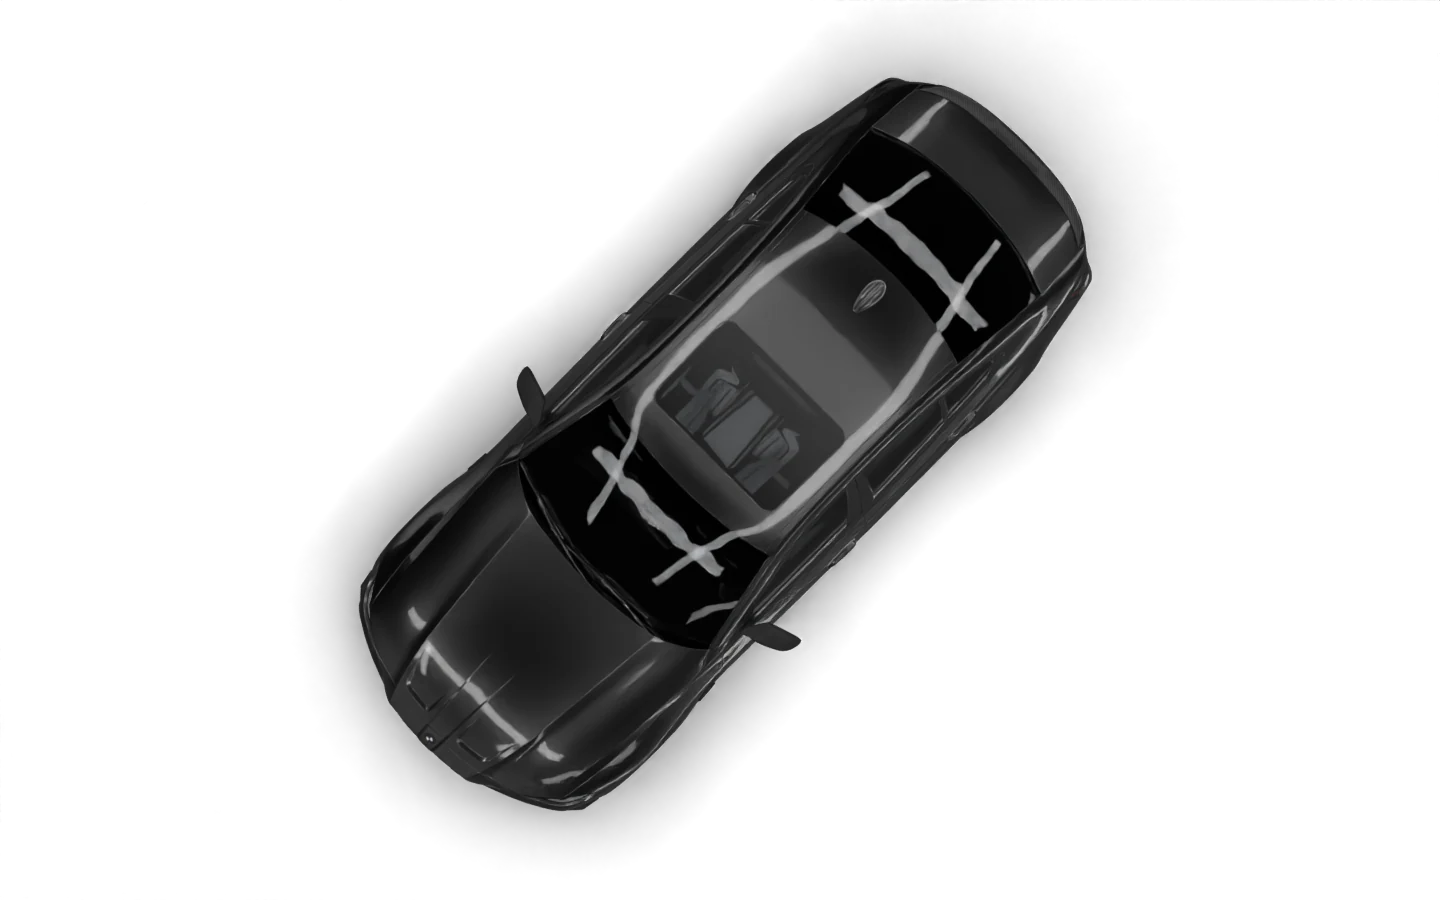
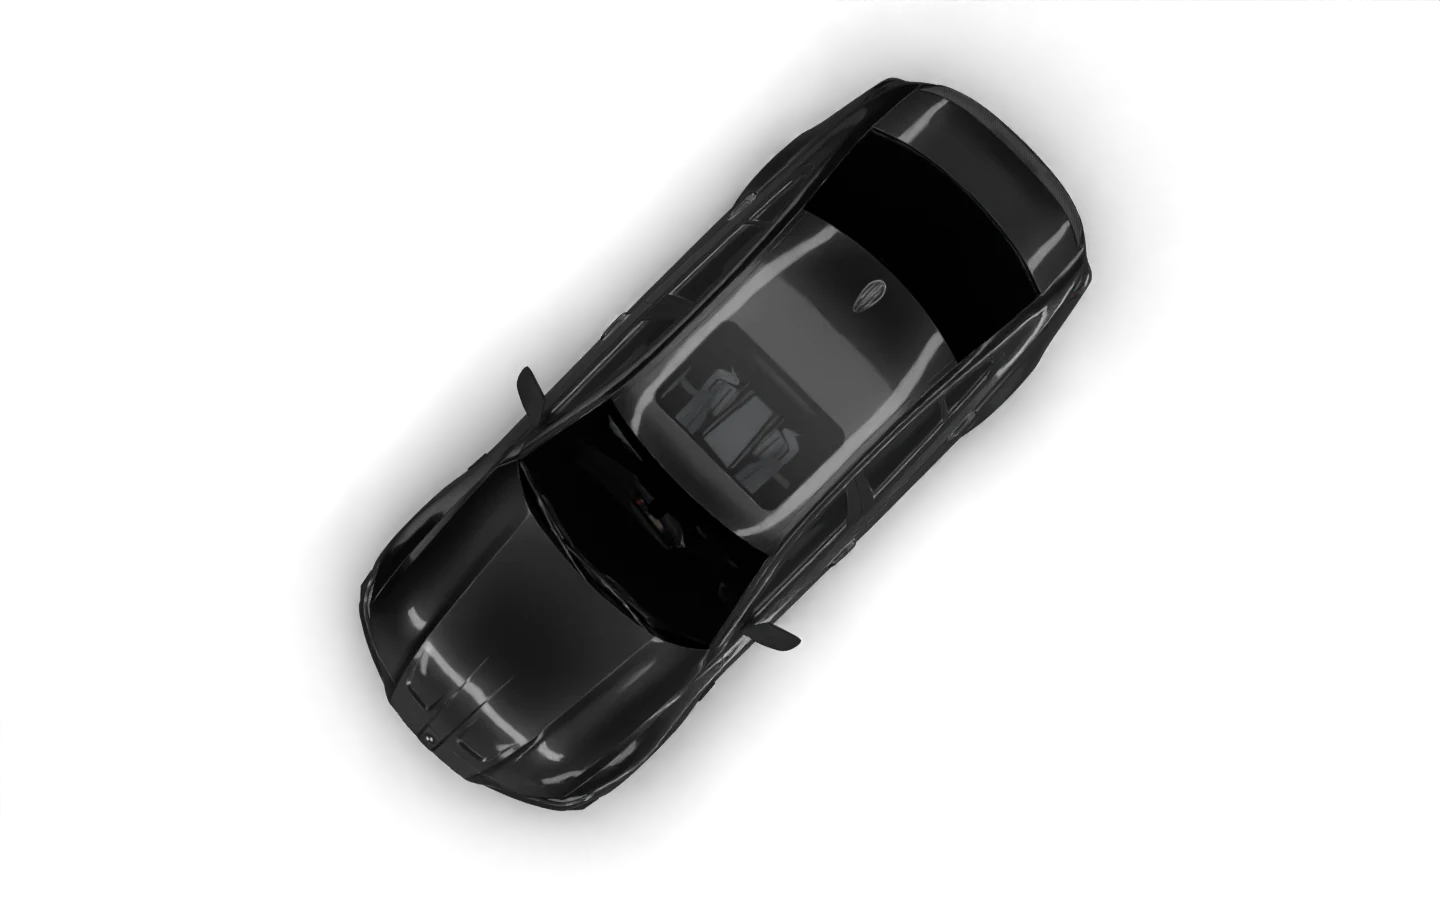
m3_g80: calm windscreen reflections (light-linked strips), tame hot top view
Per-car CAR_FIXES: glass_unlink (crisp strips no longer reflect in the bumpy glazing),
view_gain (shoulder strip 25% dimmer in the top view only, p99 1.0 -> 0.94), dark/glass_* hooks.

Claude-Session: https://claude.ai/code/session_01UZAjg8F9GXgyhnUCQ2q5hH

diff --git a/scripts/prerender/render_car.py b/scripts/prerender/render_car.py
@@ -59,11 +59,7 @@ CAR_FIXES = {
     # no_subdiv: subdivided, it runs out of memory (12.7 GB). glass_unlink: no ragged strip reflections in the bumpy glazing.
     # view_gain: from above the roof's shoulder highlights clipped (p99 1.0), so that one strip is 25% dimmer in the top view.
     'm3_g80': {'thin_glass': True, 'no_subdiv': True, 'glass_unlink': True, 'view_gain': {'top': {'shoulder': 0.75}}},
-    # suspension, hubs and anti-roll bars sit inside the arches and show through the wheel gaps (arch liners 'tubs' stay)
-    'm3_touring_g81': {'lamps': r'headlight',
-                       'hide': r'(lowerarm|upperarm|spring|shock|hub|strut|swaybar(_links)?|halfshaft|tierod)_[FR]'},
-    # the panoramic roof glass refracted the cabin into black blotches from above: flat dark glass, no crisp strips
-    'x5m_f95': {'dark_glass': r'^roof_panoram\d*_glass', 'glass_unlink': r'^roof_panoram\d*_glass'},
+    'm3_touring_g81': {'lamps': r'headlight'},
 }
 LAMP_MATS = {  # source part name in the mesh name: Principled inputs
     'Lights_Common': {'Base Color': (0.7, 0.7, 0.71, 1), 'Metallic': 1.0, 'Roughness': 0.15},  # reflectors
